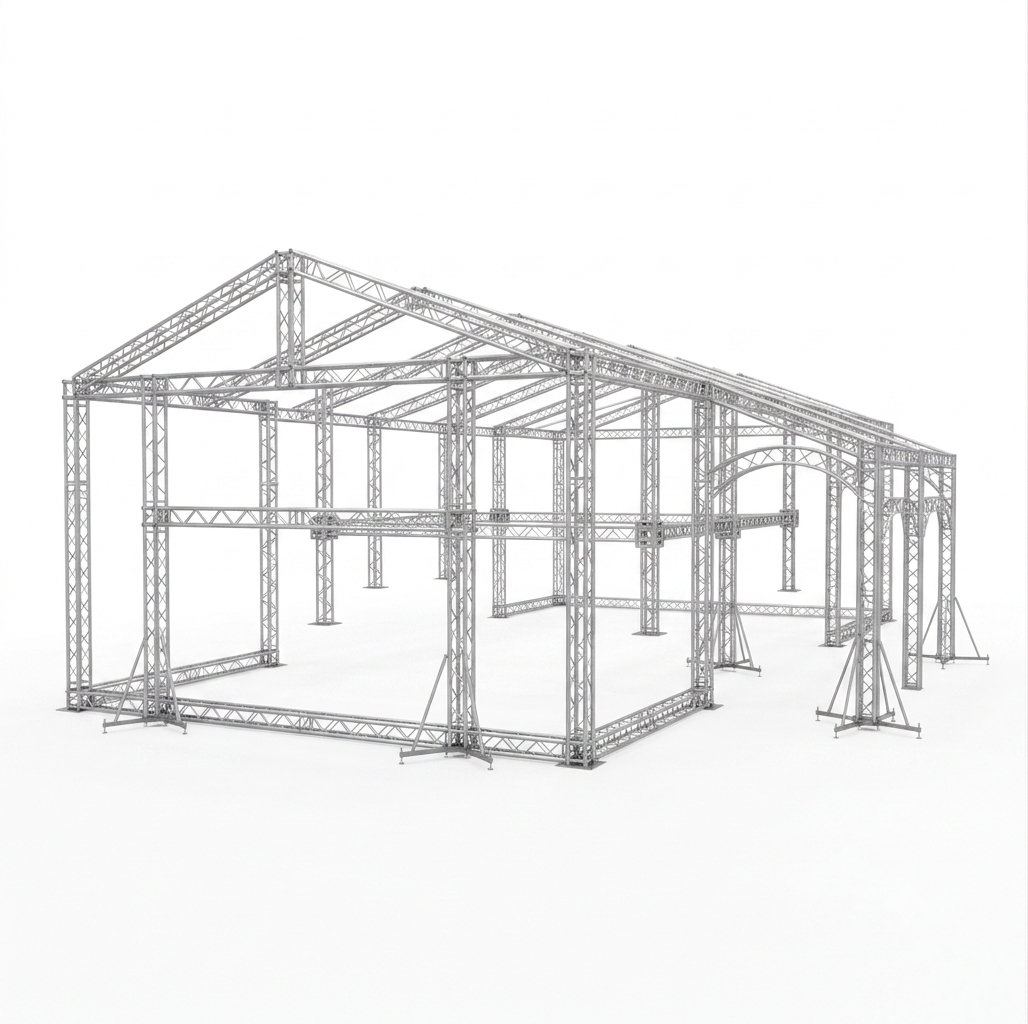
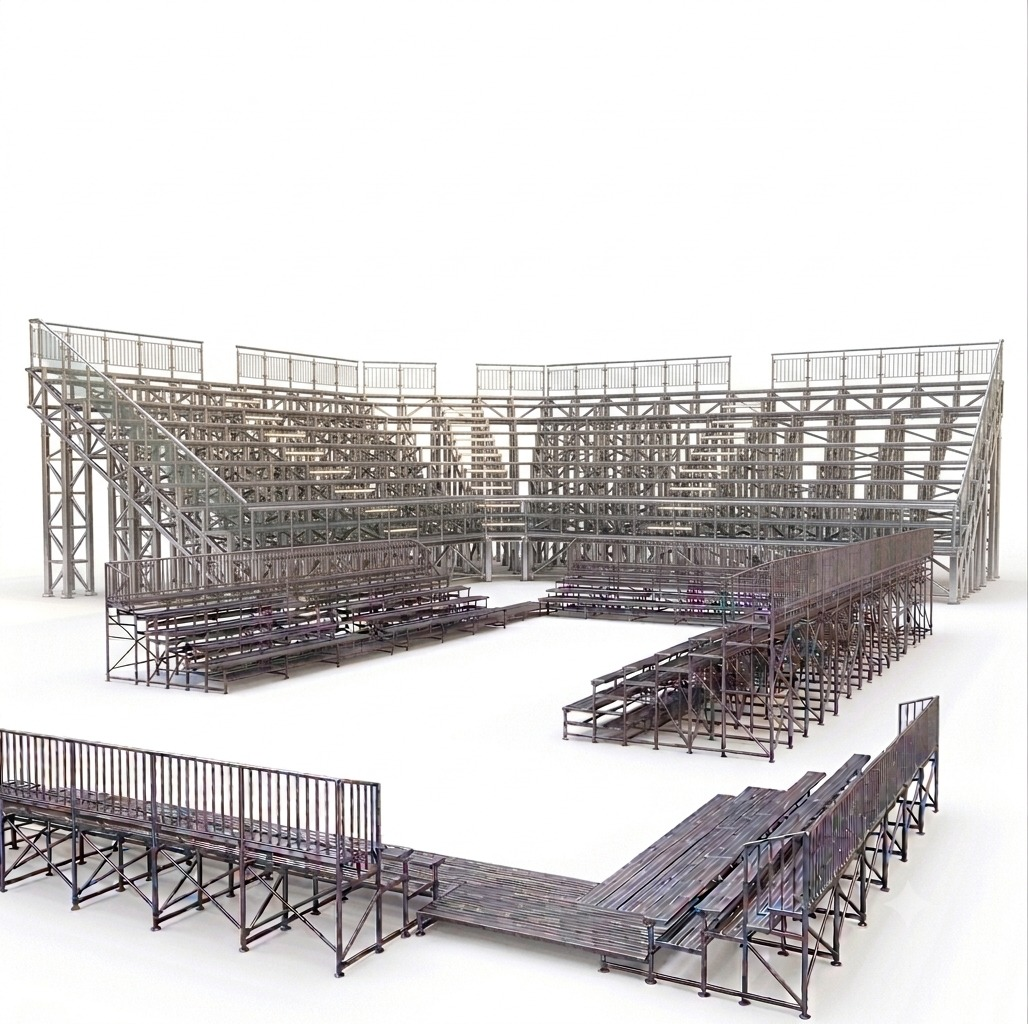
feat: update site background alt text and image for sobre section

diff --git a/lib/site-backgrounds.ts b/lib/site-backgrounds.ts
@@ -20,7 +20,7 @@ export const siteBackgrounds = {
   },
   sobre: {
     src: '/bg/estrutura-metalica-engenharia.png',
-    alt: 'Estrutura metálica com múltiplos andares para engenharia de eventos',
+    alt: 'Arquibancadas metálicas modulares com escadas e guarda-corpos para eventos',
     overlay: 'light',
     imageOpacity: 0.22,
     position: 'center',
